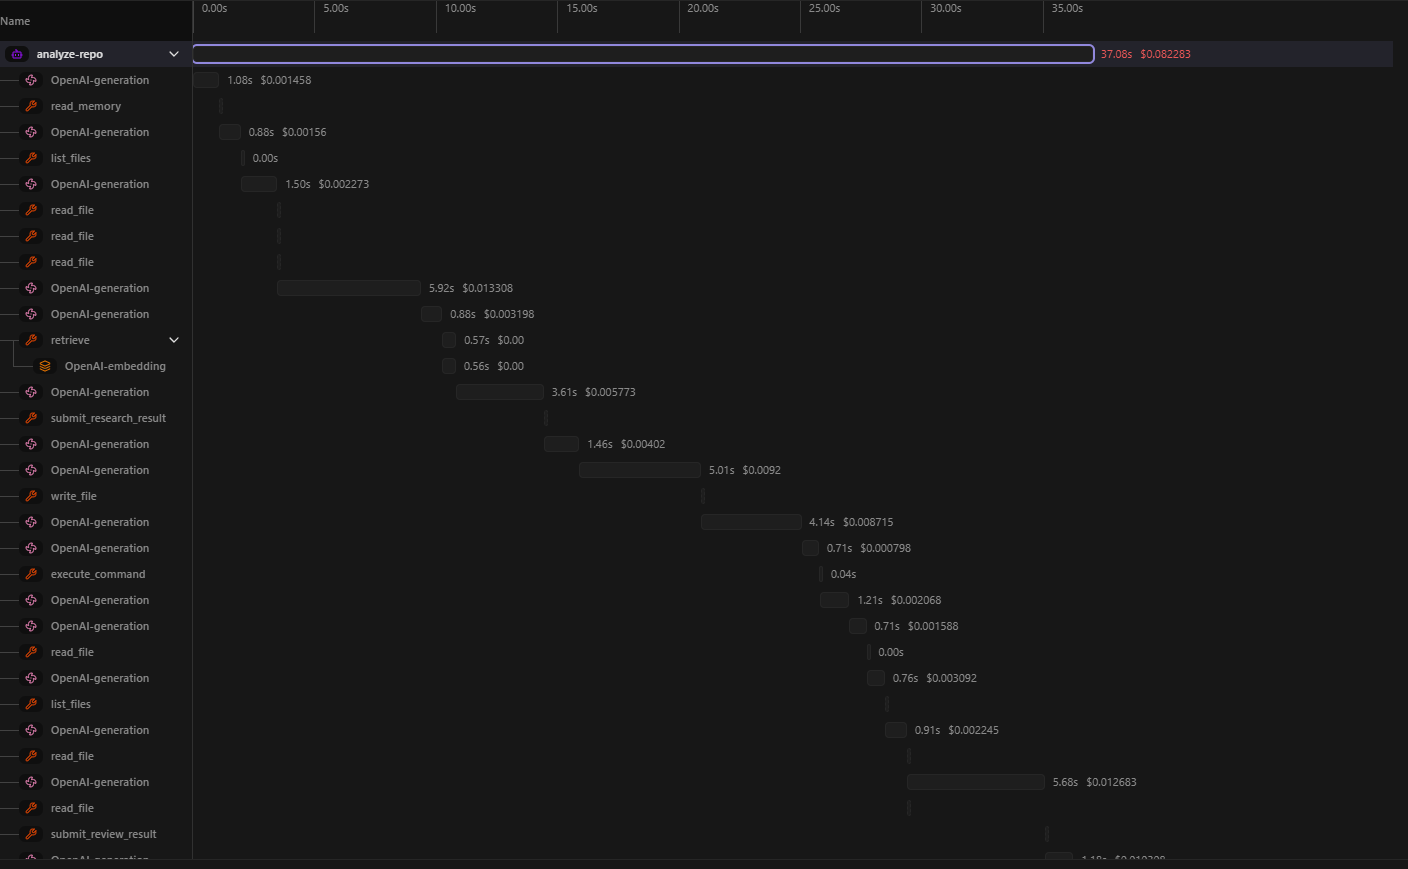
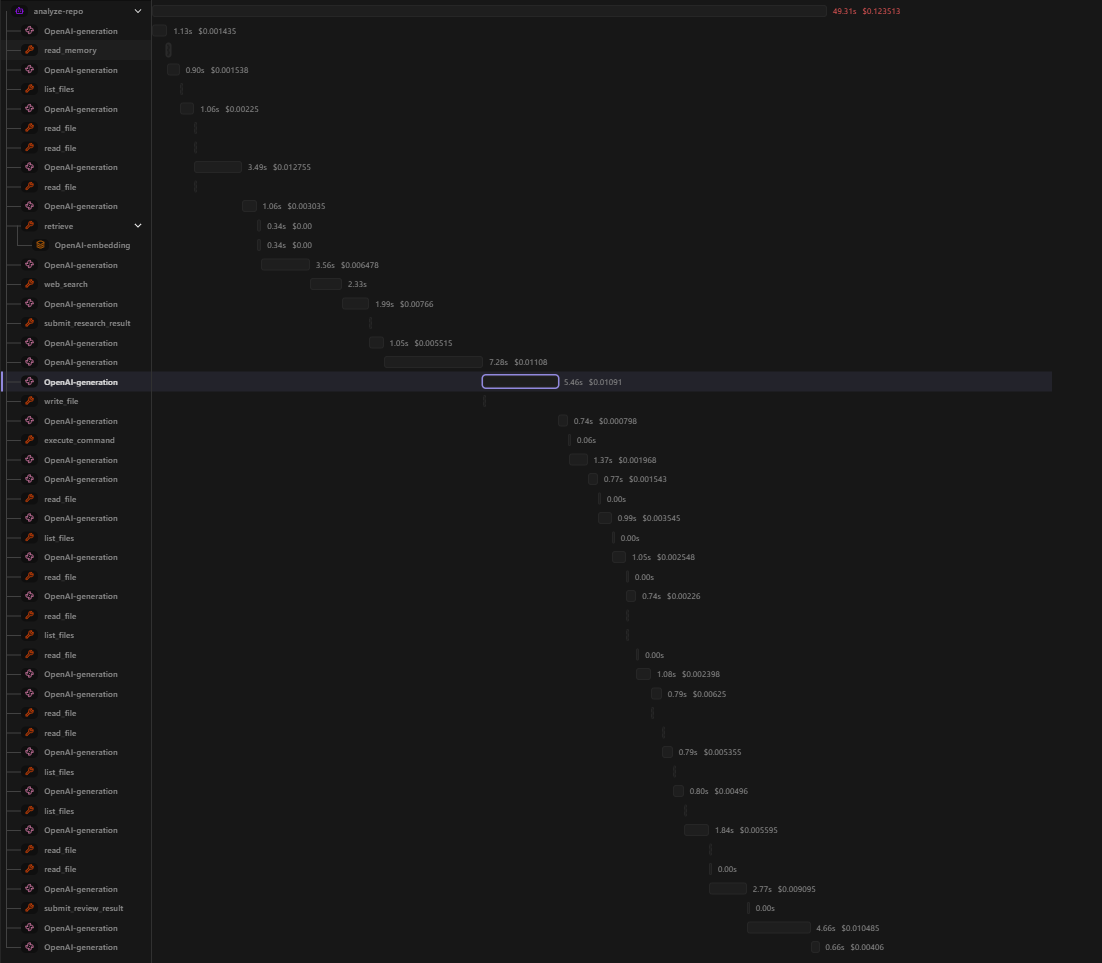
docs: actualizar evidencia de observabilidad  Reemplaza el entregable 7 con un trace más completo que incluye RAG, búsqueda web, métricas de tokens/costo/latencia y capturas del grafo y timeline de Langfuse.

diff --git a/docs/entregables/7-observabilidad.md b/docs/entregables/7-observabilidad.md
@@ -14,20 +14,23 @@ analyze-repo
 Pedido ejecutado:
 
 ```text
-Analiza este repositorio Python: arquitectura, dependencias, comandos, riesgos y checks relevantes.
+Analiza arquitectura, dependencias, riesgos y comandos
 ```
 
 Trace ID:
 
 ```text
-852c9088584005f9a577575f5fa6e02c
+0ea16ca27d06350f0188d59aeeb489d9
 ```
 
 Archivo exportado:
 
 ```text
-trace-852c9088584005f9a577575f5fa6e02c.json
+trace-0ea16ca27d06350f0188d59aeeb489d9 (1).json
 ```
+
+Esta nueva traza es mas completa para la consigna porque incluye tanto
+recuperacion RAG como busqueda web.
 
 ## Captura 1: vista resumida de la traza
 
@@ -35,18 +38,19 @@ trace-852c9088584005f9a577575f5fa6e02c.json
 
 En esta captura se observa la traza completa como un grafo resumido. El nodo raiz
 es `analyze-repo`, que representa la ejecucion completa del caso de uso. Debajo
-aparecen las llamadas a OpenAI y las tools utilizadas por los subagentes.
+aparecen las llamadas al modelo y las tools utilizadas.
 
 Elementos visibles:
 
 - `_start_`: inicio de la ejecucion.
 - `analyze-repo`: traza raiz del caso de uso.
-- `OpenAI-generation`: llamadas al modelo.
+- `OpenAI-generation`: llamadas al LLM.
+- `read_memory`: consulta de memoria persistente.
 - `list_files`: exploracion de archivos.
 - `read_file`: lectura de archivos relevantes.
-- `read_memory`: consulta de memoria persistente.
-- `retrieve`: recuperacion RAG.
-- `OpenAI-embedding`: embedding usado para la consulta RAG.
+- `retrieve`: recuperacion desde la base RAG.
+- `OpenAI-embedding`: embedding usado para consultar RAG.
+- `web_search`: busqueda web como fallback o complemento.
 - `submit_research_result`: registro estructurado del resultado del Researcher.
 - `write_file`: escritura del reporte.
 - `execute_command`: check tecnico ejecutado por el Tester.
@@ -54,55 +58,60 @@ Elementos visibles:
 - `_end_`: fin de la ejecucion.
 
 Esta vista permite comprobar que el flujo no fue una respuesta directa del LLM:
-hubo ejecucion real de herramientas, recuperacion RAG, escritura de archivo,
-validacion y revision.
+hubo exploracion del repositorio, recuperacion RAG, busqueda web, escritura de
+archivo, ejecucion de comandos y revision final.
 
 ## Captura 2: grafo completo de ejecucion
 
 ![Grafo completo de ejecucion](assets/trace-graph-full.png)
 
-La segunda captura muestra la ejecucion completa en formato expandido. Ahi se ve
-el orden de los pasos:
+La segunda captura muestra la ejecucion expandida. Ahi se ve el orden real de las
+iteraciones entre generaciones del LLM y tools.
+
+Secuencia observada:
 
 1. Inicio de `analyze-repo`.
-2. Primera generacion del LLM.
+2. Generacion inicial del LLM.
 3. Consulta a memoria con `read_memory`.
 4. Listado del repositorio con `list_files`.
-5. Lecturas de archivos con `read_file`.
+5. Lecturas de archivos clave con `read_file`.
 6. Recuperacion RAG con `retrieve`.
-7. Generacion de embeddings con `OpenAI-embedding`.
-8. Registro de fuentes con `submit_research_result`.
-9. Escritura del reporte con `write_file`.
-10. Ejecucion del check con `execute_command`.
-11. Lectura del reporte por el Reviewer.
-12. Nueva inspeccion del repositorio.
+7. Generacion de embedding con `OpenAI-embedding`.
+8. Busqueda web con `web_search`.
+9. Registro del resultado de investigacion con `submit_research_result`.
+10. Escritura del reporte con `write_file`.
+11. Ejecucion del check con `execute_command`.
+12. Lecturas y listados adicionales realizados por el Reviewer.
 13. Registro del veredicto final con `submit_review_result`.
-14. Fin de la traza.
+14. Cierre de la traza.
 
-Esta captura sirve para mostrar que la observabilidad permite reconstruir el
-camino completo del agente, incluyendo decisiones intermedias y tools usadas.
+Esta captura muestra las iteraciones del agente: el LLM decide una accion,
+invoca una tool, recibe el resultado y continua con la siguiente decision.
 
 ## Captura 3: timeline de la ejecucion
 
 ![Timeline de la ejecucion](assets/trace-timeline.png)
 
-La tercera captura muestra la linea de tiempo de la traza. La ejecucion completa
-duro aproximadamente:
+La tercera captura muestra la traza en formato timeline. Esta vista permite ver
+cuanto tarda cada paso y como se distribuyen las llamadas durante la ejecucion.
+
+En la parte superior se observa la duracion total:
 
 ```text
-37.08 segundos
+49.31 s
 ```
 
-Tambien se observa el costo aproximado informado por Langfuse:
+y el costo total estimado:
 
 ```text
-USD 0.082283
+USD 0.123513
 ```
 
-En el timeline se ve que la mayor parte del tiempo se concentra en generaciones
-del modelo OpenAI, mientras que las tools locales (`read_file`, `list_files`,
-`write_file`, `execute_command`) son muy rapidas. La llamada `retrieve` incluye
-una generacion de embedding asociada, necesaria para consultar la base RAG.
+La linea de tiempo muestra que las tools locales, como `read_file`, `list_files`,
+`write_file` y `execute_command`, son muy rapidas. En cambio, la mayor parte del
+tiempo y del costo se concentra en las generaciones `OpenAI-generation`. Tambien
+se observa la llamada `OpenAI-embedding` asociada a `retrieve`, que corresponde a
+la consulta sobre la base RAG.
 
 ## Metricas principales del trace
 
@@ -110,75 +119,142 @@ Del JSON exportado se obtuvieron las siguientes metricas:
 
 | Metrica | Valor |
 |---|---:|
-| Observaciones totales | 32 |
+| Observaciones totales | 49 |
 | Agentes raiz | 1 |
-| Generaciones OpenAI | 16 |
-| Tools ejecutadas | 14 |
+| Generaciones OpenAI | 24 |
+| Tools ejecutadas | 23 |
 | Embeddings OpenAI | 1 |
-| Duracion total | 37.075 s |
-| Tokens totales aproximados | 27.959 |
-| Costo total aproximado | USD 0.082283 |
+| Duracion total | 49.311 s |
+| Tokens totales aproximados | 52.805 |
+| Costo total aproximado | USD 0.123513 |
 
 Distribucion por nombre de observacion:
 
 | Observacion | Cantidad |
 |---|---:|
-| `OpenAI-generation` | 16 |
-| `read_file` | 6 |
-| `list_files` | 2 |
+| `OpenAI-generation` | 24 |
+| `read_file` | 11 |
+| `list_files` | 5 |
 | `read_memory` | 1 |
 | `retrieve` | 1 |
 | `OpenAI-embedding` | 1 |
+| `web_search` | 1 |
 | `submit_research_result` | 1 |
 | `write_file` | 1 |
 | `execute_command` | 1 |
 | `submit_review_result` | 1 |
 | `analyze-repo` | 1 |
 
-## Que evidencia aporta la traza
+## Cobertura de los puntos requeridos
 
-La traza permite demostrar que el sistema ejecuto el flujo multiagente completo.
-No solo hubo una llamada al LLM, sino una secuencia observable de generaciones y
-tools.
+La consigna pide registrar prompts, modelo, llamadas al LLM, tools, documentos
+recuperados, busquedas web, iteraciones, errores, latencia, tokens, costo
+estimado y resultado final.
 
-La evidencia mas importante es:
+En esta traza se observa:
 
-- El Explorer consulto memoria, listo archivos y leyo archivos clave.
-- El Researcher ejecuto `retrieve` y genero un embedding para consultar RAG.
-- El Researcher registro su resultado con `submit_research_result`.
-- El Implementer escribio `REPORTE-ANALISIS.md` usando `write_file`.
-- El Tester ejecuto un comando real con `execute_command`.
-- El Reviewer leyo el reporte, contrasto archivos y registro observaciones con
-  `submit_review_result`.
+| Punto requerido | Estado | Evidencia en Langfuse |
+|---|---|---|
+| Prompts | Registrado | En `input.messages` de cada `OpenAI-generation` |
+| Modelo utilizado | Registrado | `model: gpt-4o-2024-08-06` |
+| Llamadas al LLM | Registrado | 24 eventos `OpenAI-generation` |
+| Tools invocadas | Registrado | 23 eventos `TOOL` |
+| Documentos recuperados | Registrado | `retrieve` devuelve chunks RAG con `FUENTE_RAG` |
+| Busquedas web | Registrado | Evento `web_search` con resultados de Tavily |
+| Iteraciones | Registrado | Secuencia generation -> tool -> generation en el grafo expandido |
+| Errores | Registrado si ocurren | No se observan errores criticos en esta ejecucion |
+| Latencia | Registrado | `latency` por observacion y total de 49.311 s |
+| Tokens | Registrado | `usageDetails`, total aproximado 52.805 |
+| Costo estimado | Registrado | `costDetails`, total aproximado USD 0.123513 |
+| Resultado final | Registrado | Output del Reviewer y observaciones finales |
 
-## Resultado del Reviewer observado en la traza
+## Documentos y fuentes recuperadas
 
-La traza registra que el Reviewer termino con el veredicto:
+La tool `retrieve` consulto la base RAG con:
 
 ```text
-El reporte es incompleto.
+arquitectura, dependencias, riesgos y comandos del repositorio
 ```
 
-Las observaciones principales fueron:
+El resultado recupero chunks de:
 
-- El reporte cubria estructura del repositorio, pero no profundizaba en
-  arquitectura.
-- Las dependencias estaban correctamente alineadas con `pyproject.toml`.
-- Faltaban comandos especificos de uso o desarrollo.
-- No se mencionaban riesgos potenciales.
-- Los checks relevantes como `flake8` y `pytest` estaban implicitos, pero no
-  suficientemente analizados en el reporte.
+```text
+rag/sources/python/python-ecosystem-guide.md
+```
 
-Este punto es valioso porque muestra que la observabilidad no solo permite ver
-que el sistema corrio, sino tambien detectar limitaciones del resultado final.
+Los chunks recuperados contenian criterios para analizar repositorios Python,
+incluyendo:
+
+- `pyproject.toml`;
+- dependencias runtime y de desarrollo;
+- riesgos frecuentes;
+- entrypoints;
+- configuracion;
+- tests;
+- comandos de checks como `compileall`, `pytest`, `unittest` y `ruff`;
+- uso recomendado de `pypa/sampleproject` como repositorio de referencia.
+
+Ademas, la tool `web_search` consulto:
+
+```text
+Python repo architecture with pyproject.toml and noxfile.py
+```
+
+y recupero fuentes web sobre:
+
+- documentacion de Nox;
+- especificacion de `pyproject.toml`;
+- gestion de proyectos Python con `pyproject.toml`;
+- ejemplos y herramientas relacionadas con configuracion Python.
+
+## Check ejecutado
+
+El Tester ejecuto:
+
+```bash
+python3 -m compileall .
+```
+
+El resultado fue exitoso. La salida muestra compilacion de archivos como:
+
+- `noxfile.py`;
+- `src/sample/__init__.py`;
+- `src/sample/simple.py`;
+- `tests/__init__.py`;
+- `tests/test_simple.py`.
+
+Esto evidencia que el flujo no solo genero texto, sino que tambien ejecuto una
+validacion tecnica real sobre el repositorio analizado.
+
+## Resultado final observado
+
+El Reviewer registro el veredicto:
+
+```text
+El reporte responde adecuadamente al pedido.
+```
+
+Observaciones principales del Reviewer:
+
+- El reporte cubre la estructura del proyecto y menciona archivos/directorios
+  clave.
+- Las dependencias estan alineadas con `pyproject.toml`.
+- Las convenciones de estilo y automatizacion son consistentes con `flake8`,
+  `pytest` y Nox.
+- La seccion de riesgos es limitada, pero razonable segun la evidencia
+  disponible.
+- El apartado de comandos es limitado, aunque menciona `pyproject.toml` y
+  `noxfile.py`.
+- La carpeta `.github/workflows` confirma uso de GitHub Actions para testing y
+  releases automatizados.
 
 ## Conclusion
 
 La traza de Langfuse demuestra una ejecucion completa del caso de uso
-`analyze-repo`. La herramienta de observabilidad permite ver el grafo de pasos,
-el timeline, las llamadas al LLM, las tools ejecutadas, el uso de embeddings, el
-costo aproximado y el resultado de la revision final.
+`analyze-repo`. Se observan prompts, modelo, llamadas al LLM, tools invocadas,
+documentos recuperados por RAG, busqueda web, iteraciones, latencia, tokens,
+costo estimado, check tecnico y resultado final.
 
 Con esta evidencia se cumple el punto 7 del trabajo: hay capturas de pantalla de
-la herramienta de observabilidad y una traza completa de ejecucion que permite
-auditar el comportamiento del agente.
+la herramienta de observabilidad y una traza completa que permite auditar el
+comportamiento del agente de punta a punta.